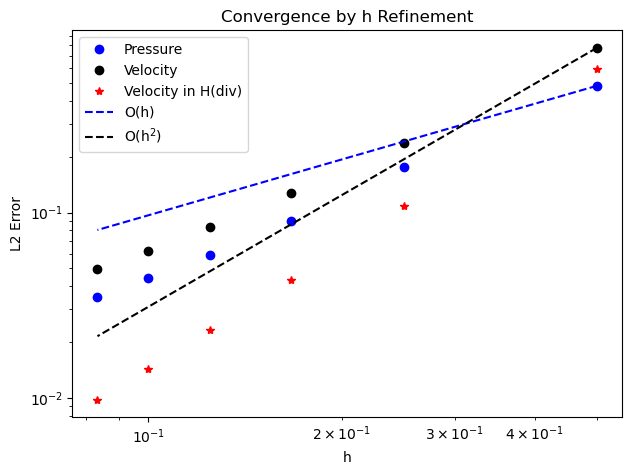
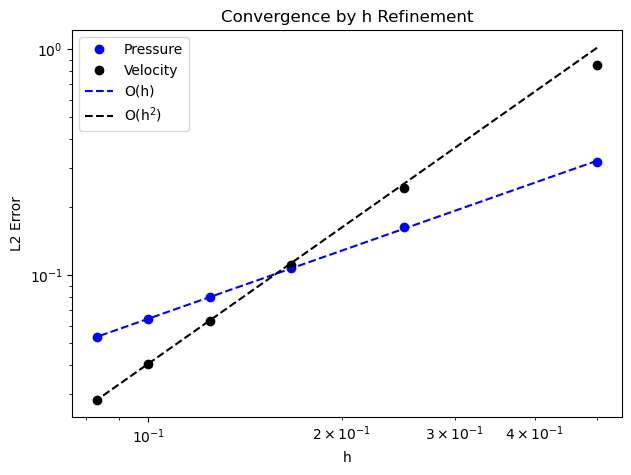
Fixed the L2 error!

diff --git a/examples/Hdiv-mixed/src/matops.c b/examples/Hdiv-mixed/src/matops.c
@@ -89,26 +89,41 @@ PetscErrorCode ComputeError(User user, Vec X, CeedVector target,
   CHKERRQ(ierr);
 
   // Compute L2 error for each field
-  CeedVector collocated_error_u, collocated_error_p;
-  CeedInt length_p, length_u, dim;
-  const CeedScalar *E_U; // to store total error; E_U=[e_p,e_u]
-
+  CeedInt c_start, c_end, dim, num_elem, num_qpts;
   ierr = DMGetDimension(user->dm, &dim); CHKERRQ(ierr);
-  length_p = length / (dim+1);
-  length_u = length - length_p;
+  ierr = DMPlexGetHeightStratum(user->dm, 0, &c_start, &c_end); CHKERRQ(ierr);
+  num_elem = c_end -c_start;
+  num_qpts = length / (num_elem*(dim+1));
+
+  CeedVector collocated_error_u, collocated_error_p;
+  const CeedScalar *E_U; // to store total error
+  CeedInt length_u, length_p;
+  length_p = num_elem*num_qpts;
+  length_u = num_elem*num_qpts*dim;
   CeedScalar e_u[length_u], e_p[length_p];
 
-  CeedVectorGetArrayRead(collocated_error, CEED_MEM_HOST, &E_U);
   CeedVectorCreate(user->ceed, length_p, &collocated_error_p);
-  for (CeedInt i=0; i<length_p; i++)
-    e_p[i] = E_U[i];
+  CeedVectorCreate(user->ceed, length_u, &collocated_error_u);
+  // E_U is ordered as [p_0,u_0/.../p_n,u_n] for 0 to n num_elem
+  // For each element p_0 size is num_qpts, and u_0 is dim*num_qpts
+  CeedVectorGetArrayRead(collocated_error, CEED_MEM_HOST, &E_U);
+  for (CeedInt n=0; n < num_elem; n++) {
+    for (CeedInt i=0; i < num_qpts; i++) {
+      CeedInt j = i + n*num_qpts;
+      CeedInt k = i + n*num_qpts*(dim+1);
+      e_p[j] = E_U[k];
+    }
+  }
+
+  for (CeedInt n=0; n < num_elem; n++) {
+    for (CeedInt i=0; i < dim*num_qpts; i++) {
+      CeedInt j = i + n*num_qpts*dim;
+      CeedInt k = num_qpts + i + n*num_qpts*(dim+1);
+      e_u[j] = E_U[k];
+    }
+  }
 
   CeedVectorSetArray(collocated_error_p, CEED_MEM_HOST, CEED_USE_POINTER, e_p);
-
-  CeedVectorCreate(user->ceed, length_u, &collocated_error_u);
-  for (CeedInt i=0; i<length_u; i++)
-    e_u[i] = E_U[length_p+i];
-
   CeedVectorSetArray(collocated_error_u, CEED_MEM_HOST, CEED_USE_POINTER, e_u);
   CeedVectorRestoreArrayRead(collocated_error, &E_U);
 

diff --git a/examples/Hdiv-mixed/main.c b/examples/Hdiv-mixed/main.c
@@ -225,11 +225,10 @@ int main(int argc, char **argv) {
                      "    Final rnorm                         : %e\n"
                      "    Total dof                           : %D\n"
                      "    L2 Error of u: %e"
-                     "    L2 Error of p: %e"
-                     "    L2 Error of u in H(div) space: %e\n",
+                     "    L2 Error of p: %e\n",
                      ksp_type, KSPConvergedReasons[reason], its,
                      (double)rnorm, U_g_size, (double)l2_error_u,
-                     (double)l2_error_p, (double)l2_proj_u); CHKERRQ(ierr);
+                     (double)l2_error_p); CHKERRQ(ierr);
 
   // ---------------------------------------------------------------------------
   // Free objects

diff --git a/examples/Hdiv-mixed/conv_plot.py b/examples/Hdiv-mixed/conv_plot.py
@@ -41,14 +41,14 @@ def plot():
 
     E_u = data['error_u']
     E_p = data['error_p']
-    E_hdiv = data['error_hdiv']
+    #E_hdiv = data['error_hdiv']
     h = 1/data['mesh_res']
-    H1 =  E_p[0]* (h/h[0]) # H = C h^1
-    H2 =  E_u[0]* (h/h[0])**2  # H = C h^2
+    H1 =  amin(E_p)* (h/amin(h)) # H = C h^1
+    H2 =  amin(E_u)* (h/amin(h))**2  # H = C h^2
 
     ax.loglog(h, E_p, 'o', color='blue', label='Pressure')
     ax.loglog(h, E_u, 'o', color='black', label = 'Velocity')
-    ax.loglog(h, E_hdiv, '*', color='red', label = 'Velocity in H(div)')
+    #ax.loglog(h, E_hdiv, '*', color='red', label = 'Velocity in H(div)')
     ax.loglog(h, H1, '--', color='blue', label='O(h)')
     ax.loglog(h, H2, '--', color='black', label='O(h$^2$)')
 
